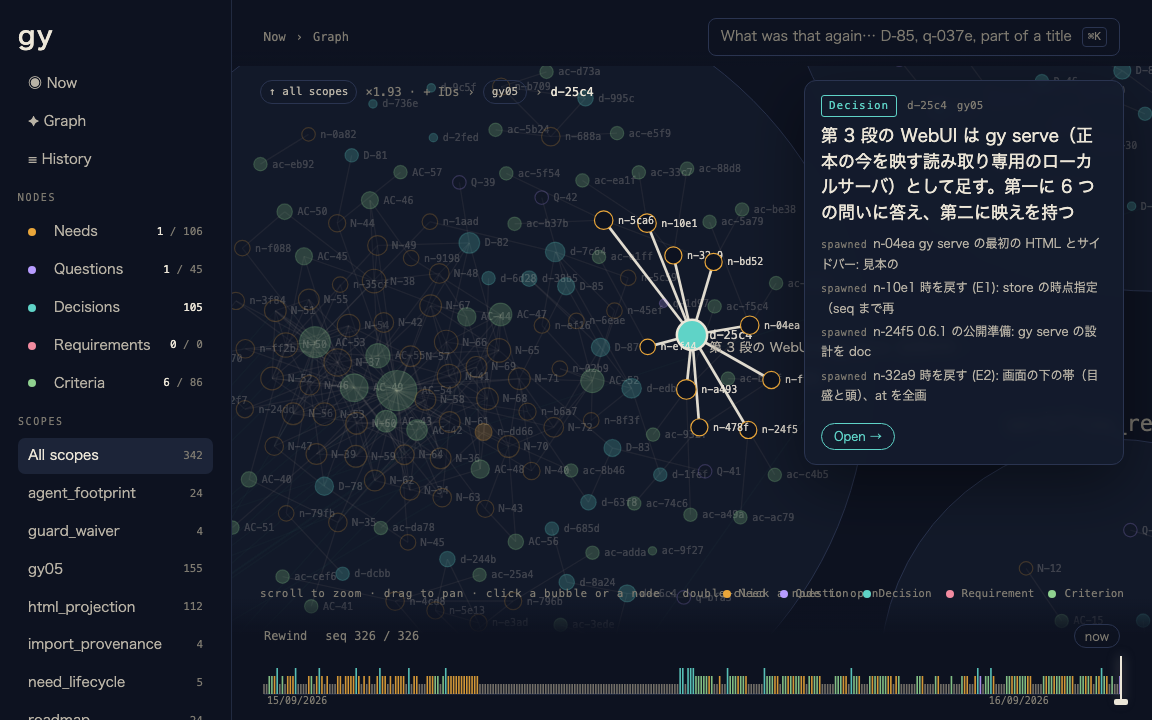
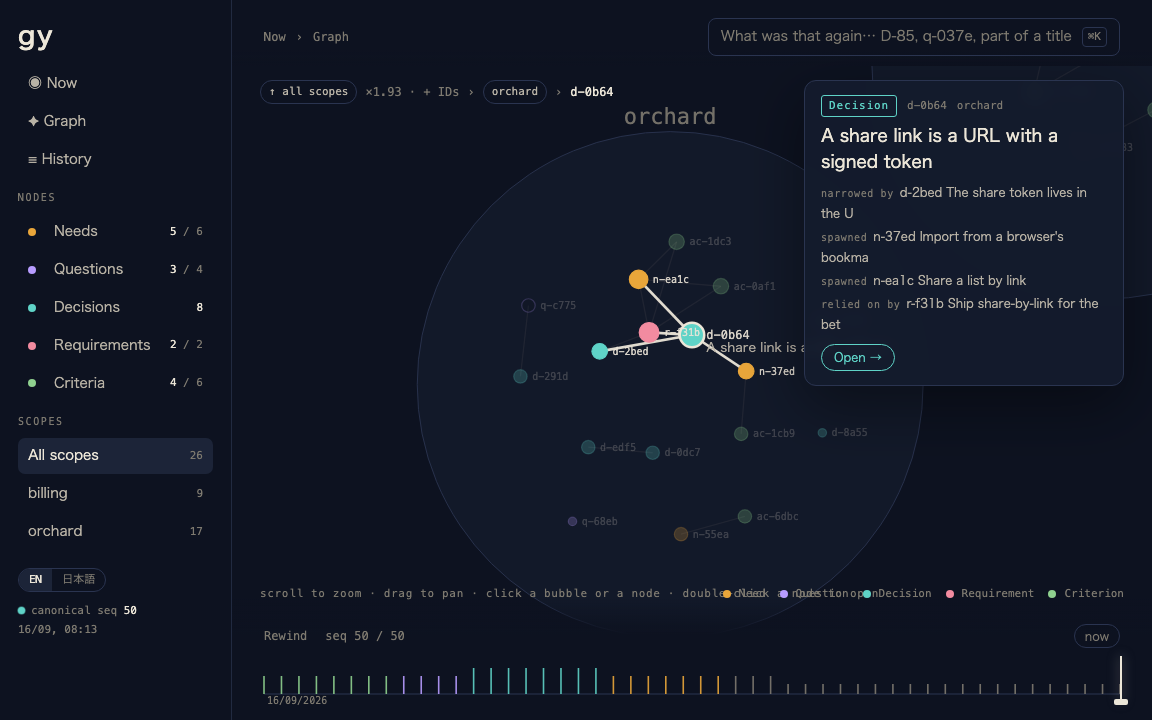
docs(readme): English screenshots from a demo ledger; scripts/demo-ledger.sh
The master's call (d-72af): gy's own ledger is written in Japanese, so
the English README now shows a small English demo project, "Orchard",
built by scripts/demo-ledger.sh with the gy CLI alone — deterministic
titles, fifty writes, three items waiting on the master. Run it and
`gy serve` to try the same. The Japanese README keeps gy's own ledger.

Claude-Session: https://claude.ai/code/session_01ALmyKpaYrCxxaVQkFXsvKy

diff --git a/README.ja.md b/README.ja.md
@@ -4,6 +4,8 @@
 
 gy は、要求が確定するまでの状態を記録します。ある仕事が何に基づいているかを、ニーズ・論点・決定・要求・受け入れ条件のノードと辺のグラフとして持ちます。使い方は一つで、設定するものはほとんどありません。エージェントが作業しながら書き、`publish` が記録をファイルに書き出し、それをコミットして後から読み返します。正本はリポジトリの外に置き、gy はネットワークへ出ません。
 
+スクショは gy 自身の台帳です。英語の見本の台帳は `scripts/demo-ledger.sh` で作れます。
+
 いま
 
 <img src="https://raw.githubusercontent.com/aq2bq/gy/main/docs/images/serve-now-ja.png" alt="いま" width="100%">

diff --git a/README.md b/README.md
@@ -4,6 +4,8 @@ English | [日本語](README.ja.md)
 
 gy records the state before a requirement is confirmed. It holds the needs, questions, decisions, requirements, and acceptance criteria that a piece of work rests on, as a graph of nodes and edges, with one way to use it and almost nothing to configure. Agents write it as they work, and `publish` writes the record to a file that is committed and read back later. The canonical ledger lives outside the repository, and gy makes no network calls.
 
+The screenshots show a demo ledger built by `scripts/demo-ledger.sh`; run it and `gy serve` to try the same.
+
 The now page
 
 <img src="https://raw.githubusercontent.com/aq2bq/gy/main/docs/images/serve-now-en.png" alt="The now page" width="100%">

diff --git a/CHANGELOG.md b/CHANGELOG.md
@@ -10,6 +10,8 @@
   graph. Every read takes `at=<seq>`; the HTTP layer is the standard
   library alone; the end-to-end tests live under `e2e/`. It opens the
   browser when started from a terminal. Twenty-two terminal commands.
+- `scripts/demo-ledger.sh` builds a small English demo ledger to try
+  `serve` on.
 
 ### Fixed
 
